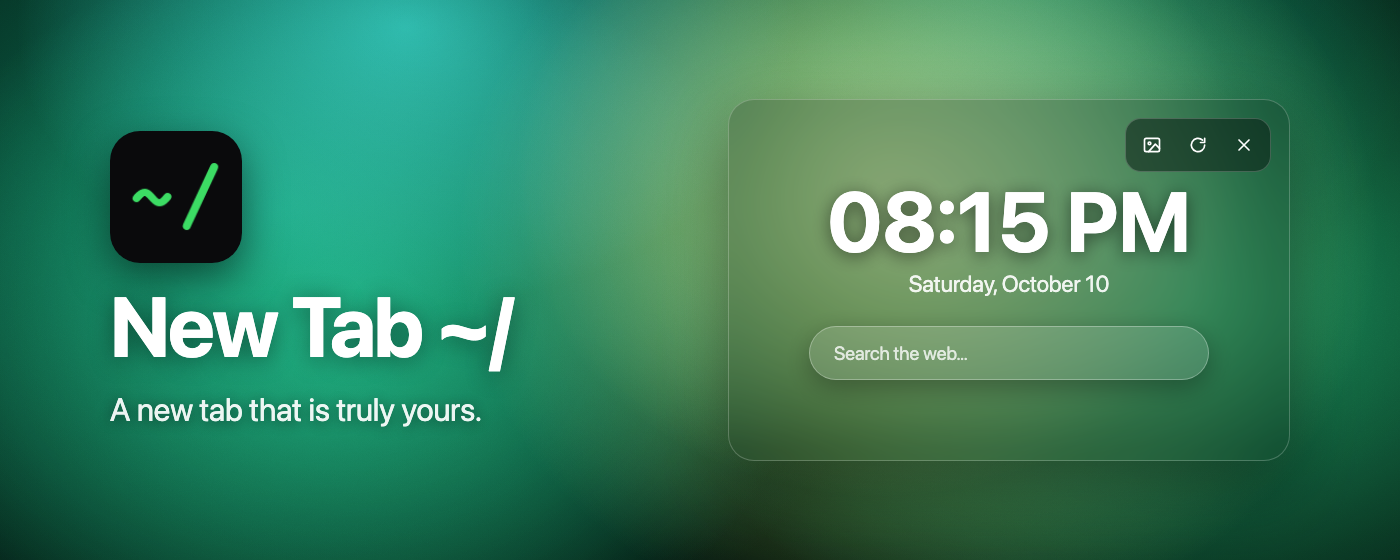
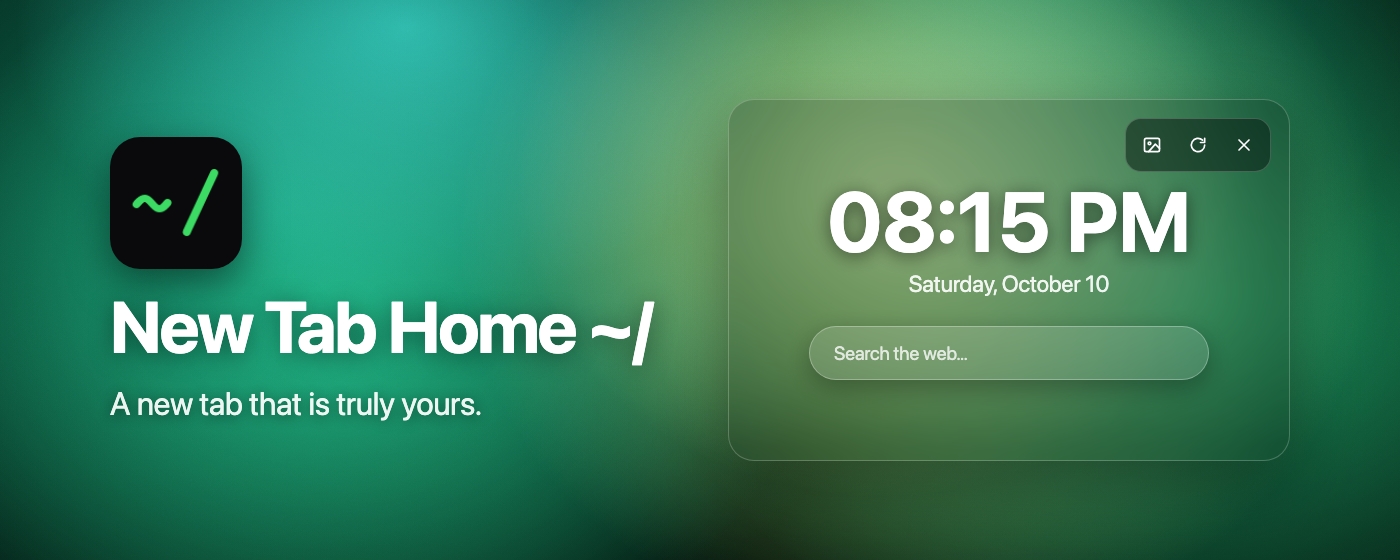
Rename to New Tab Home ~/, update tiles and store listing text

diff --git a/store-assets/marquee-tile.html b/store-assets/marquee-tile.html
@@ -4,7 +4,7 @@ html,body{margin:0;width:1400px;height:560px;overflow:hidden}
 body{background:linear-gradient(rgba(2,12,8,.15),rgba(2,12,8,.15)),url("file:///Users/ike.v/Projects/Homepage/store-assets/wallpapers/forest.svg") center/cover;font-family:-apple-system,"SF Pro Display","Helvetica Neue",Arial,sans-serif;color:#fff;display:flex;align-items:center;justify-content:space-between;padding:0 110px;box-sizing:border-box}
 .left{display:flex;flex-direction:column;gap:22px;max-width:560px}
 .left img{width:132px;height:132px;border-radius:30px;box-shadow:0 14px 40px rgba(0,0,0,.5)}
-h1{margin:0;font-size:84px;line-height:1;font-weight:700;letter-spacing:-2px;text-shadow:0 3px 24px rgba(0,0,0,.45)}
+h1{margin:0;font-size:72px;white-space:nowrap;line-height:1;font-weight:700;letter-spacing:-2px;text-shadow:0 3px 24px rgba(0,0,0,.45)}
 p{margin:0;font-size:32px;opacity:.92;text-shadow:0 2px 14px rgba(0,0,0,.5)}
 .card{position:relative;width:560px;height:360px;border-radius:26px;background:rgba(0,0,0,.22);border:1px solid rgba(255,255,255,.22);box-shadow:0 24px 70px rgba(0,0,0,.45);backdrop-filter:blur(14px);display:flex;flex-direction:column;align-items:center;justify-content:center;gap:6px}
 .clock{font-size:84px;font-weight:700;line-height:1;text-shadow:0 3px 18px rgba(0,0,0,.5)}
@@ -16,7 +16,7 @@ svg{width:20px;height:20px;fill:none;stroke:#fff;stroke-width:2;stroke-linecap:r
 </style>
 <div class="left">
   <img src="file:///Users/ike.v/Projects/Homepage/icons/icon128.png">
-  <h1>New Tab ~/</h1>
+  <h1>New Tab Home ~/</h1>
   <p>A new tab that is truly yours.</p>
 </div>
 <div class="card">

diff --git a/store-assets/promo-tile.html b/store-assets/promo-tile.html
@@ -8,6 +8,6 @@ p{margin:0;font-size:16px;opacity:.9;text-shadow:0 1px 8px rgba(0,0,0,.5)}
 .pill{width:260px;height:34px;border-radius:17px;background:rgba(255,255,255,.14);border:1px solid rgba(255,255,255,.28);box-shadow:0 6px 20px rgba(0,0,0,.3);font-size:13px;opacity:.95;display:flex;align-items:center;padding-left:16px;box-sizing:border-box;color:rgba(255,255,255,.75)}
 </style>
 <img src="file:///Users/ike.v/Projects/Homepage/icons/icon128.png">
-<h1>New Tab ~/</h1>
+<h1>New Tab Home ~/</h1>
 <p>A new tab that is truly yours.</p>
 <div class="pill">Search the web…</div>

diff --git a/store-assets/store-listing.md b/store-assets/store-listing.md
@@ -2,7 +2,7 @@
 
 ## Store listing tab
 
-**Name:** New Tab ~/ (from manifest)
+**Name:** New Tab Home ~/ (from manifest)
 
 **Summary** (manifest description, 109/132):
 A custom New Tab page: clock, multi-engine search, and a wallpaper that rotates through a local image folder.
@@ -14,19 +14,45 @@ A custom New Tab page: clock, multi-engine search, and a wallpaper that rotates 
 **Description:**
 
 ```
-Got a folder full of wallpapers you never see? New Tab ~/ puts them on your new tab page: pick a folder once, and every new tab shows a different image, with a clock and a search bar on top.
+A new tab that is truly yours.
 
-Your images never leave your computer. There are no accounts, no tracking, and no ads.
+Got a folder full of wallpapers you never see?
+Now you will, every time you open a tab.
+"New Tab Home ~/" (~/ short for home folder) replaces your new tab page with a clock, a search bar, and a wallpaper picked at random from a folder of your own images.
 
-FEATURES
-• Wallpapers from your own folder, with recently shown images skipped so you don't see the same few over and over
-• "Allow on every visit" keeps the folder available across restarts
-• Search with your browser's default engine, or pick from the various built-in engine options
-• Add your own search engines with a URL template
-• Press / anywhere on the page to focus the search bar
+Your images never leave your computer.
+
+ -No accounts, no tracking, no ads-
+
+WALLPAPERS
+• Choose a folder once. Every new tab / refresh shows a different image
+
+• Recently shown images are skipped, so you don't see the same few over and over
+
+• Choose "Allow on every visit" and the folder stays available after you restart your browser
+
+• The gear button opens a small menu: add images, refresh, or remove the current wallpaper image
+
+• Drag image files onto the page to add them to the rotation
+
+• Remove only deletes the copy the extension holds, never your original files. Images from your folder can't be removed this way; delete the file from the folder instead
+
+• No folder access? Some browsers turn it off, and touch devices work differently. Add images directly instead
+
+• Works with JPG, PNG, WebP, GIF, AVIF, BMP and SVG
+
+
+SEARCH
+• Uses your browser's default search engine
+• Or pick another: Google, Bing, DuckDuckGo, Brave Search, or Startpage, (also Wikipedia, Reddit, YouTube, YouTube Music, or Wallhaven)
+• Add your own search engines with a URL template (put %s where the search goes)
+• Type a web address and press Enter to go straight there
+• Press / anywhere on the page to jump to the search bar
 
 PRIVACY
-The extension has no server, no analytics, and no remote code. Searches go straight to the engine you choose. The only network requests it makes are favicon lookups for the built-in engines in the picker. Full policy: https://github.com/ike-V/new-tab-home/blob/main/PRIVACY.md
+Your images are read in your browser and never uploaded. The extension has no server, no analytics, and no remote code. Searches go straight to the engine you choose. The only network requests it makes are small favicon lookups for the built-in engines in the picker. It asks for one permission, "search", so it can use your browser's default search engine. Full policy: https://github.com/ike-V/new-tab-home/blob/main/PRIVACY.md
+
+Works in Chromium-based browsers such as Chrome, Edge and Brave.
 
 Open source (MIT): https://github.com/ike-V/new-tab-home
 ```
